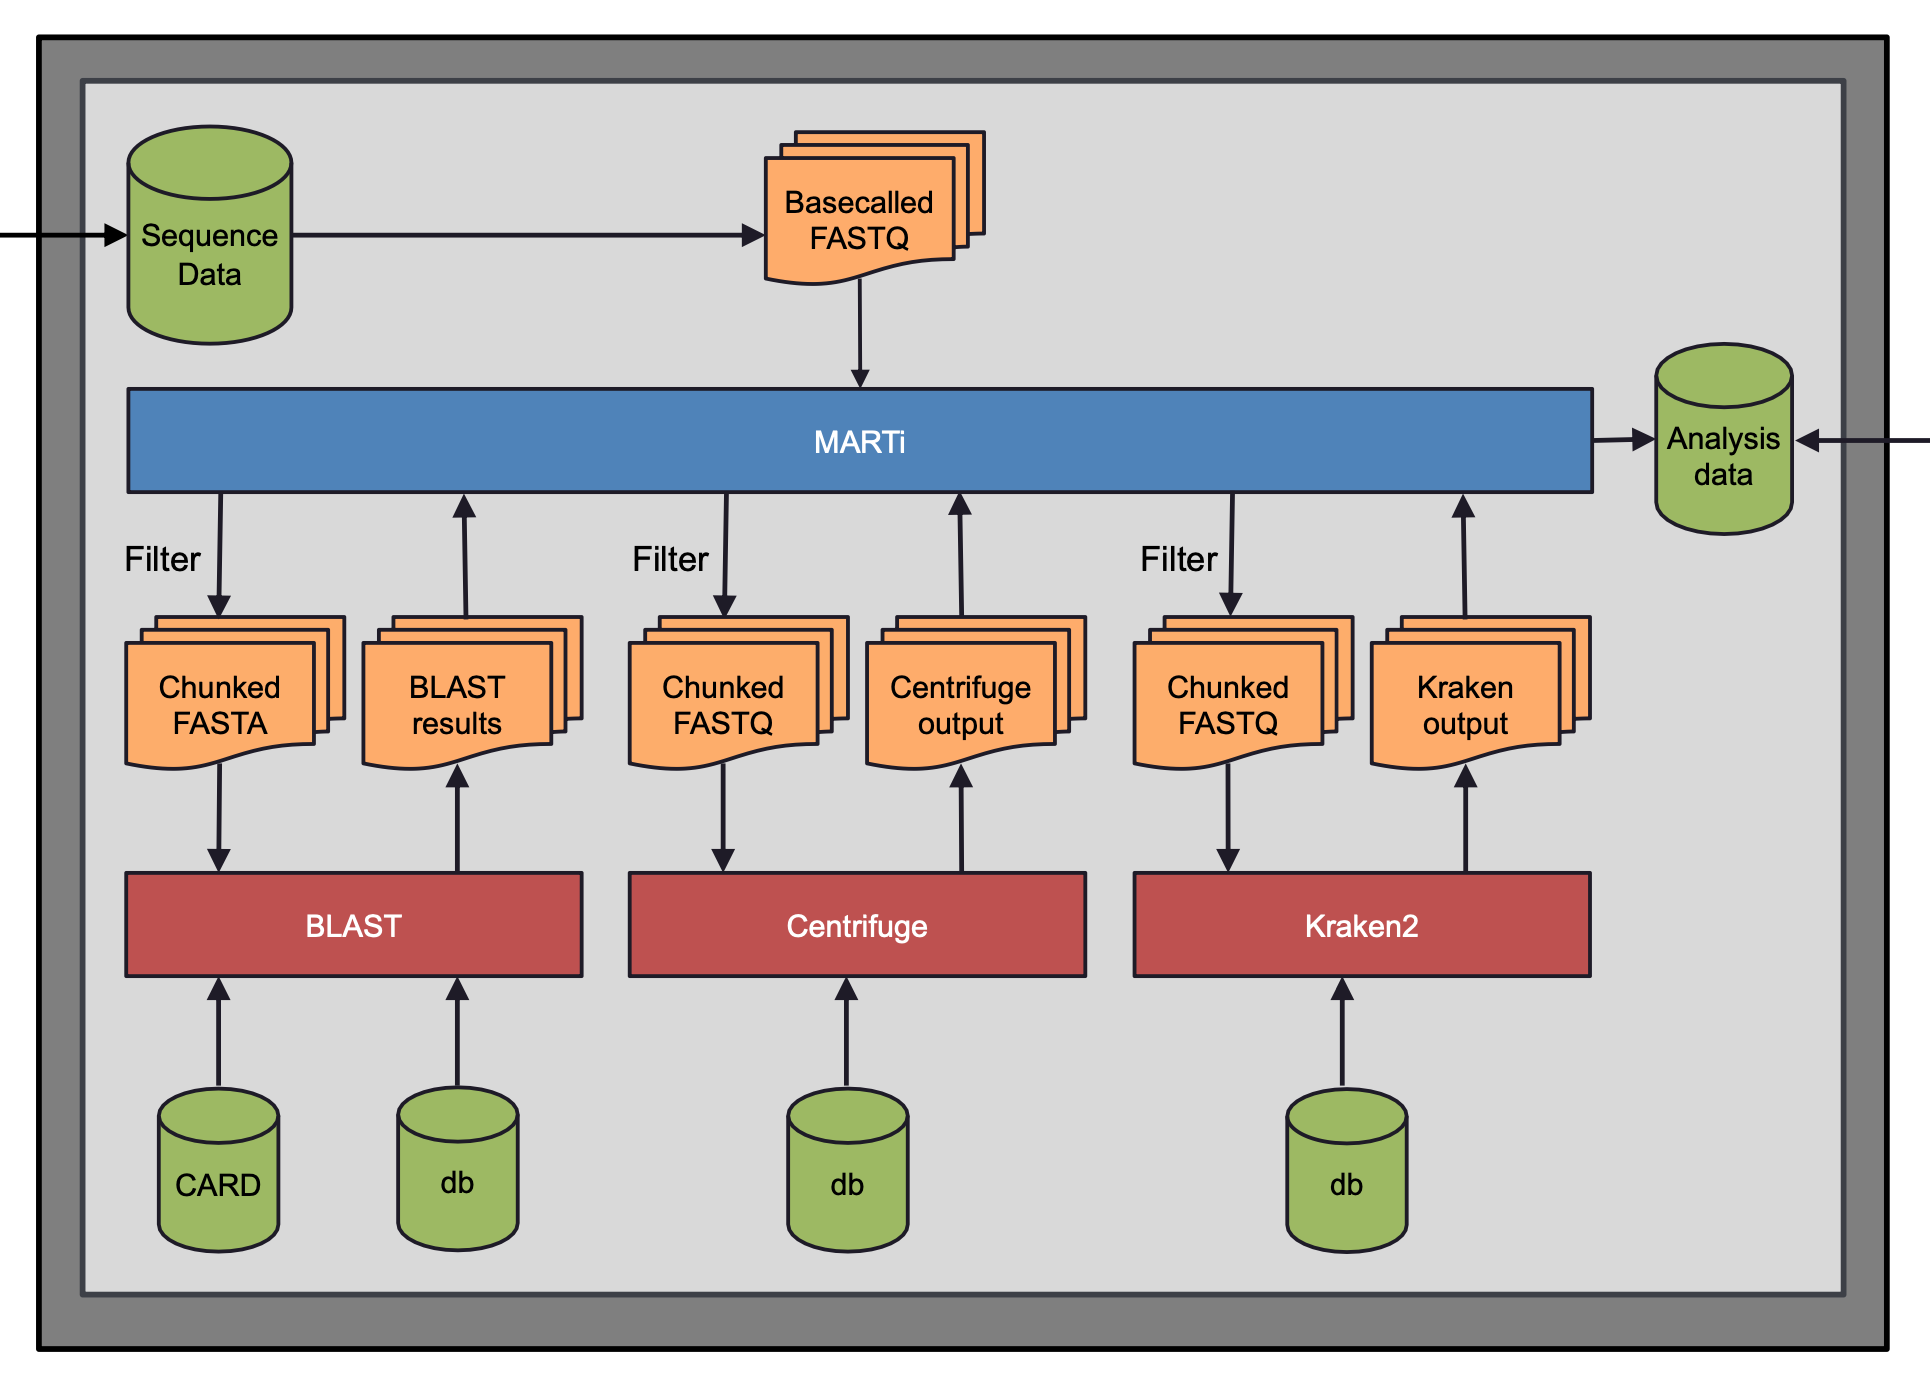
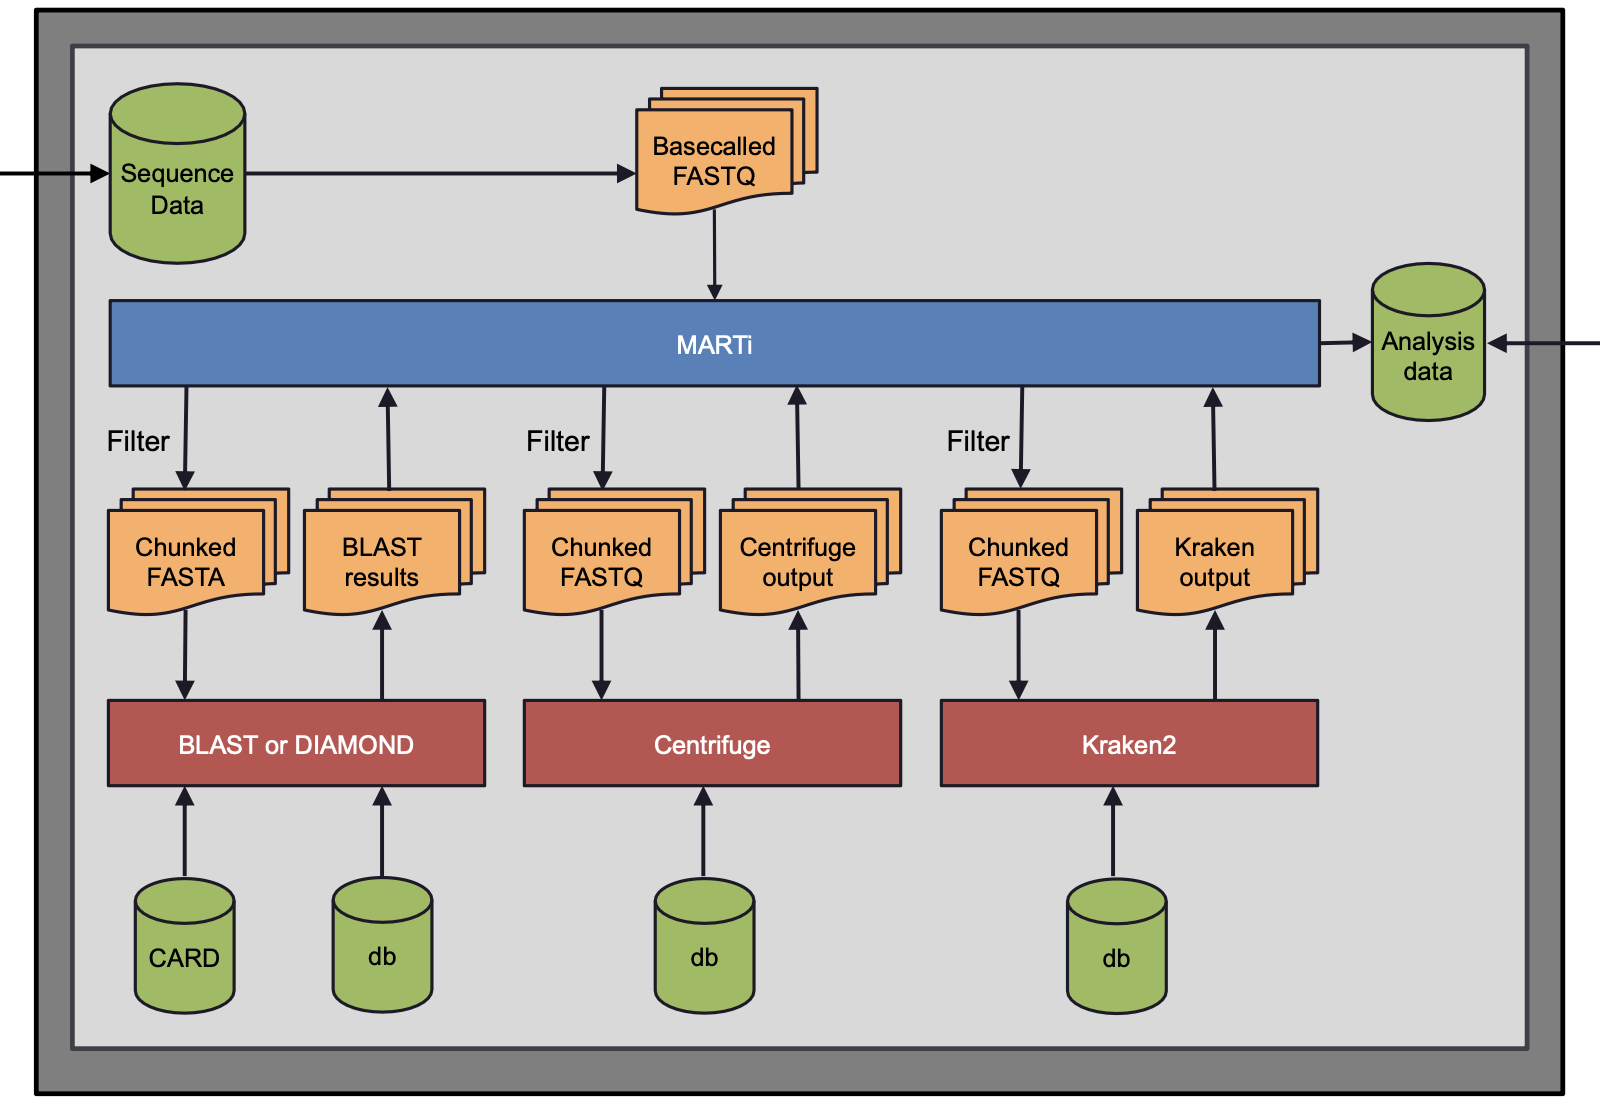
Updated documentation with DIAMOND

Changed region(s): [[0.0, 0.0, 1.0, 1.0], [0.8125, 0.491, 0.8438, 0.5217]]

diff --git a/docs/source/intro.rst b/docs/source/intro.rst
@@ -54,6 +54,6 @@ The diagram above illustrates the processes that take place inside the MARTi Eng
 
 * Basecalled reads first pass through a prefilter which removes reads that don't meet a quality or length threshold.
 * Remaining reads are batched into chunks for speedy analysis.
-* By default, MARTi classifies reads with a combination of BLAST and its own Lowest Common Ancestor algorithm to assign reads to taxa. Centrifuge and Kraken2 can also be used as an alternative for lower powered systems.
+* By default, MARTi classifies reads with a combination of BLAST and its own Lowest Common Ancestor algorithm to assign reads to taxa. You can also use DIAMOND instead of BLAST for protein searches. Centrifuge and Kraken2 can also be used as an alternative for lower powered systems.
 * BLAST files are gzip compressed after analysis to reduce storage requirements.
 * For AMR classification, MARTi uses BLAST and the CARD database.
